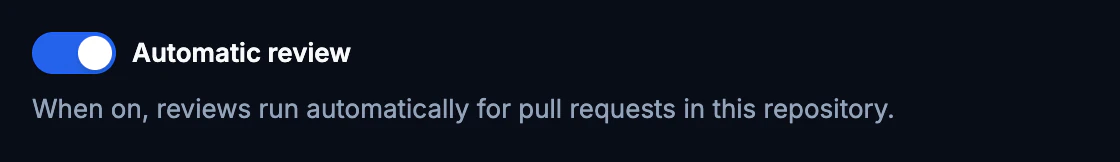
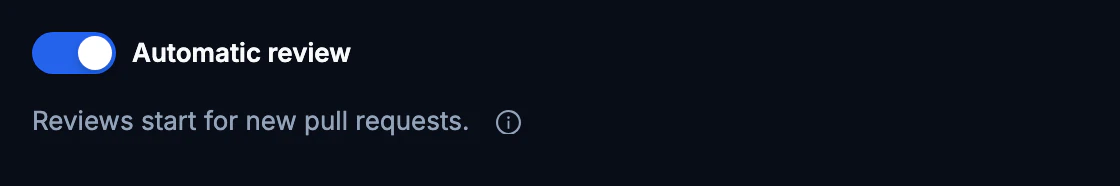
fix: address info hint review feedback (#167)

Changed region(s): [[0.0312, 0.5864, 0.8125, 0.7716], [0.0312, 0.1543, 0.3125, 0.463]]

diff --git a/src/shared/ui/InfoHint/InfoHint.test.tsx b/src/shared/ui/InfoHint/InfoHint.test.tsx
@@ -3,6 +3,7 @@ import { cleanup, fireEvent, render, screen, waitFor } from '@testing-library/re
 import { afterEach, describe, expect, it } from 'vitest'
 
 import { InfoHint } from './InfoHint'
+import styles from './InfoHint.module.css'
 
 afterEach(() => {
   cleanup()
@@ -24,6 +25,7 @@ describe('InfoHint', () => {
     fireEvent.mouseLeave(button)
     await waitFor(() => {
       expect(button.getAttribute('aria-expanded')).toBe('false')
+      expect(screen.queryByText('The index stores structure only.')).toBeNull()
     })
   })
 
@@ -61,7 +63,44 @@ describe('InfoHint', () => {
     fireEvent.click(button)
     await waitFor(() => {
       expect(button.getAttribute('aria-expanded')).toBe('false')
+      expect(screen.queryByText('The index stores structure only.')).toBeNull()
     })
+  })
+
+  it('reopens on the first click after Escape closes a click-opened hint', async () => {
+    const button = renderHint()
+    fireEvent.click(button)
+    expect(await screen.findByText('The index stores structure only.')).toBeTruthy()
+
+    fireEvent.keyDown(button, { key: 'Escape' })
+    await waitFor(() => {
+      expect(button.getAttribute('aria-expanded')).toBe('false')
+      expect(screen.queryByText('The index stores structure only.')).toBeNull()
+    })
+
+    fireEvent.click(button)
+    expect(await screen.findByText('The index stores structure only.')).toBeTruthy()
+    expect(button.getAttribute('aria-expanded')).toBe('true')
+  })
+
+  it('closes on the first pointer click after opening with the keyboard', async () => {
+    const button = renderHint()
+    button.focus()
+    fireEvent.keyDown(button, { key: 'Enter' })
+    expect(await screen.findByText('The index stores structure only.')).toBeTruthy()
+
+    fireEvent.click(button)
+    await waitFor(() => {
+      expect(button.getAttribute('aria-expanded')).toBe('false')
+      expect(screen.queryByText('The index stores structure only.')).toBeNull()
+    })
+  })
+
+  it('applies the width class to the popover root', async () => {
+    const button = renderHint()
+    fireEvent.click(button)
+    const content = await screen.findByText('The index stores structure only.')
+    expect(content.closest('.ant-popover')?.className).toContain(styles.popup)
   })
 
   it.each(['Enter', ' '])('opens with %s and closes with Escape', async (key) => {
@@ -75,6 +114,7 @@ describe('InfoHint', () => {
     fireEvent.keyDown(button, { key: 'Escape' })
     await waitFor(() => {
       expect(button.getAttribute('aria-expanded')).toBe('false')
+      expect(screen.queryByText('The index stores structure only.')).toBeNull()
     })
     expect(document.activeElement).toBe(button)
 

diff --git a/docs-site/components/dashboard/settings-blocks.tsx b/docs-site/components/dashboard/settings-blocks.tsx
@@ -6,7 +6,7 @@
  */
 import { Flex, Form, Input, InputNumber, Radio, Select, Switch, Typography } from 'antd'
 import { BranchesOutlined } from '@ant-design/icons'
-import { CodeBlock, Tag } from '../../../src/shared/ui'
+import { CodeBlock, InfoHint, Tag } from '../../../src/shared/ui'
 import autoStyles from '../../../src/features/repository-settings/ui/AutoReviewSwitch.module.css'
 import ragStyles from '../../../src/features/repository-settings/ui/RagSection.module.css'
 import formStyles from '../../../src/features/repository-settings/ui/RepositorySettingsForm.module.css'
@@ -45,9 +45,12 @@ export function AutoReviewBlock() {
         <Switch checked />
         <Text strong>Automatic review</Text>
       </Flex>
-      <Text type="secondary">
-        When on, reviews run automatically for pull requests in this repository.
-      </Text>
+      <Flex align="center" gap={4}>
+        <Text type="secondary">Reviews start for new pull requests.</Text>
+        <InfoHint label="More about automatic review">
+          When on, reviews run automatically for pull requests in this repository.
+        </InfoHint>
+      </Flex>
     </section>
   )
 }
@@ -59,10 +62,13 @@ export function RagBlock() {
         <Switch checked />
         <Text strong>RAG</Text>
       </Flex>
-      <Text type="secondary">
-        Takes the links between the repository files into account, which makes the review more
-        precise. May increase the cost. Only the code structure is stored, not its text.
-      </Text>
+      <Flex align="center" gap={4}>
+        <Text type="secondary">Uses links between files; reviews may cost more.</Text>
+        <InfoHint label="More about RAG">
+          Takes the links between the repository files into account, which makes the review more
+          precise. May increase the cost. Only the code structure is stored, not its text.
+        </InfoHint>
+      </Flex>
       <Flex align="center" className={ragStyles.status} gap={8} wrap>
         <Text type="secondary">Index status:</Text>
         <Tag tone="success">Ready</Tag>

diff --git a/src/shared/ui/InfoHint/InfoHint.tsx b/src/shared/ui/InfoHint/InfoHint.tsx
@@ -16,6 +16,8 @@ export const InfoHint: FC<InfoHintProps> = ({ label, children }) => {
   const clickPending = useRef(false)
 
   const onOpenChange = (next: boolean): void => {
+    // rc-trigger calls this after the button's capture handler for a pointer click. Treat that
+    // click as the toggle; hover may already have opened the same popover before the click.
     if (clickPending.current) {
       clickPending.current = false
       clickedOpen.current = !clickedOpen.current
@@ -28,10 +30,13 @@ export const InfoHint: FC<InfoHintProps> = ({ label, children }) => {
 
   const onKeyDown = (event: KeyboardEvent<HTMLButtonElement>): void => {
     if (event.key === 'Escape') {
+      clickedOpen.current = false
+      clickPending.current = false
       setOpen(false)
     } else if (event.key === 'Enter' || event.key === ' ') {
       event.preventDefault()
-      setOpen((current) => !current)
+      clickedOpen.current = !open
+      setOpen(clickedOpen.current)
     }
   }
 

diff --git a/docs-site/components/mockups/index.tsx b/docs-site/components/mockups/index.tsx
@@ -28,7 +28,7 @@ export function AutoReviewSnippet() {
       caption="The Automatic review switch."
       name="settings-auto-review"
       alt="Screenshot of the Automatic review switch in repository settings, with its hint."
-      note="The hint under the switch is the app's own wording. Today a pull request still needs the ai-review label, see above."
+      note="The short line and ⓘ explanation use the app's own wording. Today a pull request still needs the ai-review label, see above."
     />
   )
 }
@@ -39,7 +39,7 @@ export function RagSnippet() {
       caption="The RAG switch with the index status."
       name="settings-rag"
       alt="Screenshot of the RAG section in repository settings: the switch and the index status."
-      note="The hint under the switch is the app's own wording."
+      note="The short line and ⓘ explanation use the app's own wording."
     />
   )
 }

diff --git a/src/shared/ui/stories/Popover.stories.tsx b/src/shared/ui/stories/Popover.stories.tsx
@@ -36,3 +36,12 @@ export const NarrowViewport: Story = {
     </div>
   ),
 }
+
+export const OpenWithKeyboard: Story = {
+  ...Explanation,
+  play: ({ canvasElement }) => {
+    const button = canvasElement.querySelector('button')
+    button?.focus()
+    button?.dispatchEvent(new KeyboardEvent('keydown', { bubbles: true, key: 'Enter' }))
+  },
+}

diff --git a/docs/FRONTEND_ARCHITECTURE.md b/docs/FRONTEND_ARCHITECTURE.md
@@ -1070,10 +1070,11 @@ Upgrade canary в `routerLocationAdapter.test.tsx` проверяет досту
   возвращается к серверному значению; `Alert` уходит, когда начинается следующая попытка. Пока `PATCH` идёт,
   переключатель в `loading` и недоступен, а фокус после ответа возвращается на него тем же приёмом, что у
   авто-ревью (`flushSync`).
-  Подсказка под подписью видна всегда (не `Tooltip`), одной короткой строкой без технических терминов:
+  Под подписью всегда видна короткая строка «Учитывает связи между файлами; ревью может стоить дороже.»;
+  `aria-describedby` связывает её с переключателем. Рядом кнопка ⓘ (`InfoHint`) открывает подробности:
   «Учитывает связи между файлами репозитория, делая ревью точнее. Может увеличить стоимость. Хранится только
-  структура кода, не его текст.» (`RAG_HINT`; оба утверждения AC5 на месте: что RAG даёт ревью и во что
-  обходится, и что хранится только структура кода, не текст, — [ADR 0001][adr-0001] §4). Без доступа провайдера
+  структура кода, не его текст.» (оба утверждения AC5: польза и цена RAG, а также хранение структуры без
+  текста кода — [ADR 0001][adr-0001] §4). Без доступа провайдера
   (`installationAvailable === false`) переключатель выключен и недоступен, под подсказкой стоит текст с
   `VCS_ACCESS_NAME[provider]` (для GitHub — «Нет доступа GitHub App — RAG недоступен»), статус — «Выключен».
   Сервер сам отдаёт там `ragEnabled: false` и `disabled`,
@@ -1801,9 +1802,10 @@ PATCH с переключателя, ничем другим не дополня
 **3. Что строит индекс.** Сборку и жизненный цикл индекса делает api#143 (на 22.10.2026 открыт): пока он не
 влит, включение RAG не запускает сборку, и на реальном api статус остаётся `empty`, а `building` и `stale` не
 бывают. UI устроен под все шесть значений, опрос ограничен окном 120 с (§2), а когда окно кончилось, секция
-говорит «Автообновление остановлено — обновите страницу». Формулировка подсказки у переключателя — по
-[ADR 0001][adr-0001]: индекс хранит только граф символов и указатели (путь, строки, commit), текст кода не
-хранится; подсказка говорит об этом без терминов — «Хранится только структура кода, не его текст».
+говорит «Автообновление остановлено — обновите страницу». Короткая строка под переключателем сообщает о
+влиянии RAG на ревью и возможной стоимости. Подробности в ⓘ следуют [ADR 0001][adr-0001]: индекс хранит
+граф символов и указатели (путь, строки, commit), текст кода не хранится; формулировка без терминов —
+«Хранится только структура кода, не его текст».
 
 ---
 
